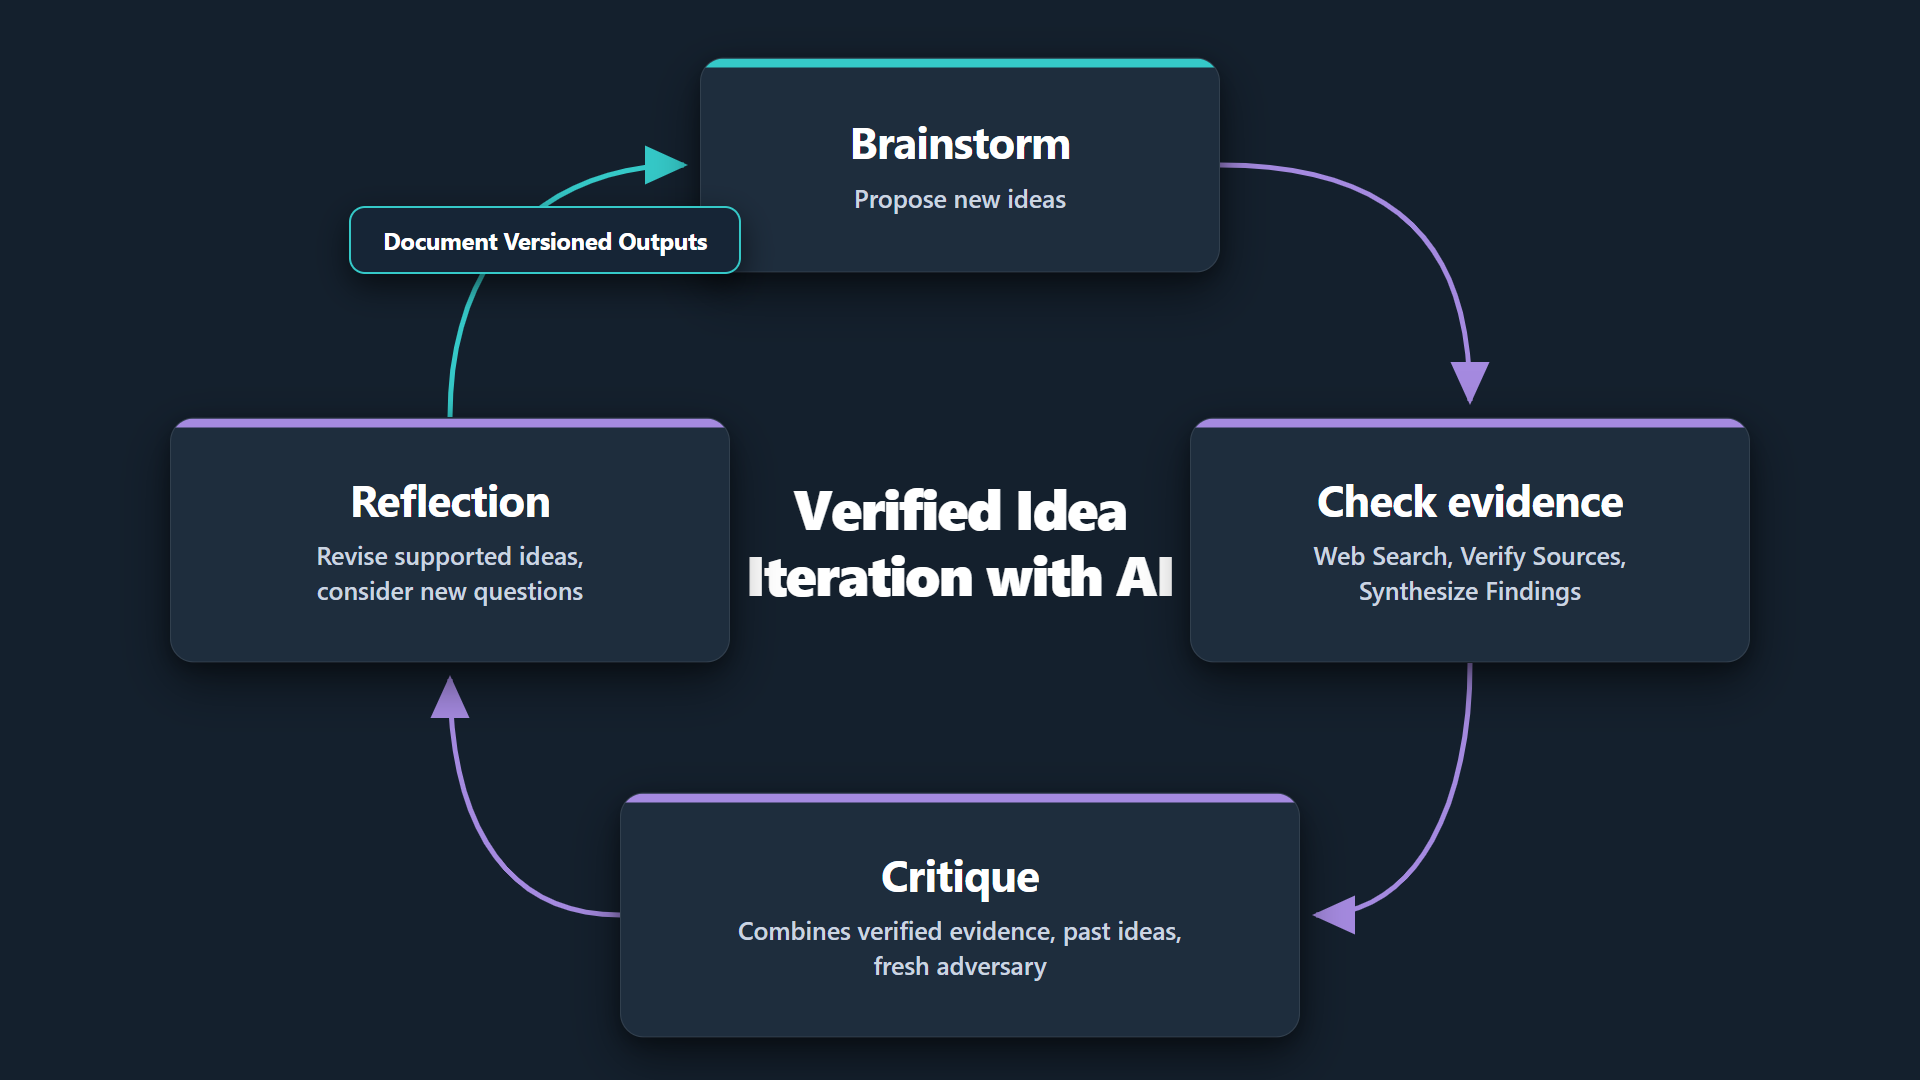
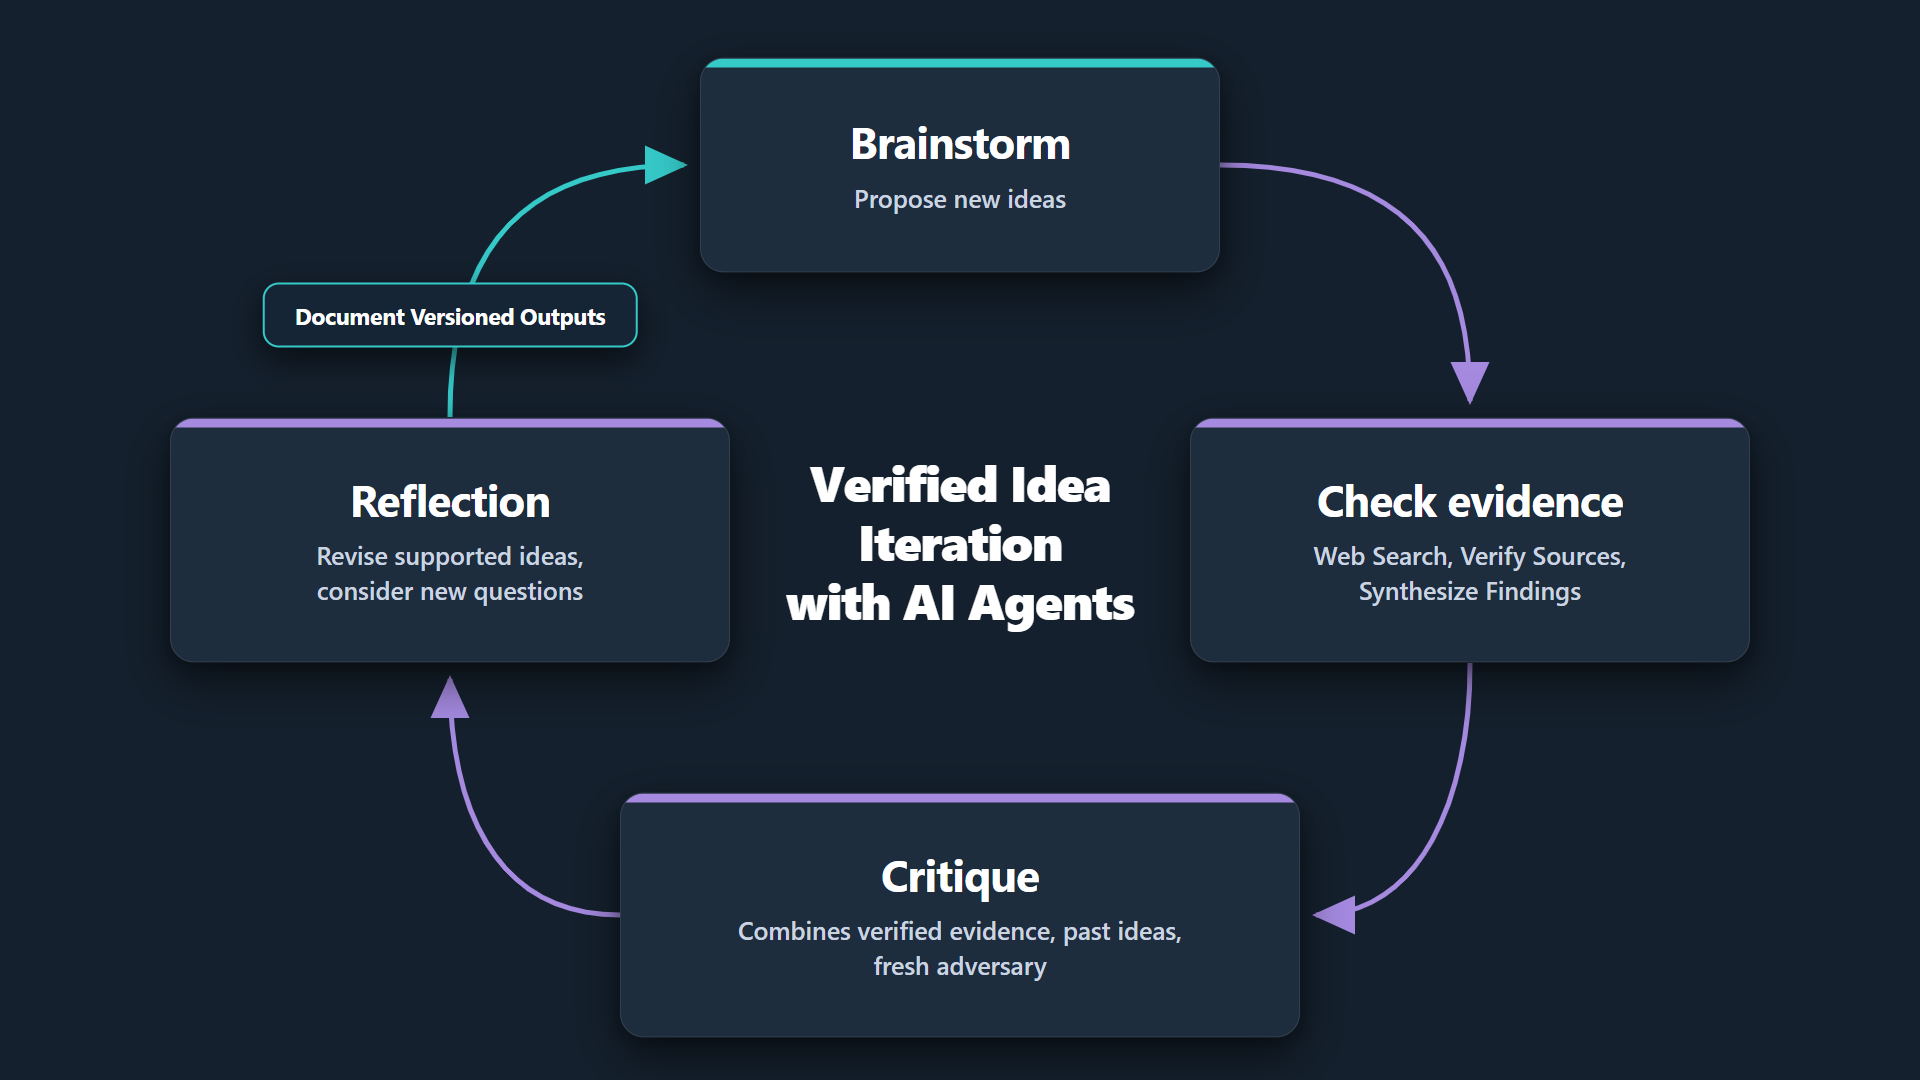
feat(website): adjust callout position and update center title to 3-line phrase

Changed region(s): [[0.375, 0.4278, 0.625, 0.5806], [0.1562, 0.1528, 0.375, 0.3361]]

diff --git a/content/blog/ai_idea_to_talk/index.md b/content/blog/ai_idea_to_talk/index.md
@@ -18,7 +18,7 @@ Rather than start over, I wondered what a development professional would say abo
 
 The AI models I used brought useful challenges and ideas, but also their own biases and mistakes. What helped most was changing my starting question. Rather than asking whether an impact evaluation result would hold up in a new place, I began by asking when a practitioner would realistically seek out that kind of evidence, how they would find it and fold it into their planning, and what a useful set of estimates would look like to them. As I refined the proposal, I kept checking it against research papers and reports from think tanks and development organizations. It is still an early-stage plan, but it points in a much more productive direction than where I started.
 
-{{< figure src="process-overview.png" caption="Verified idea iteration with AI: a continuous cycle of brainstorming, evidence checking, adversarial critique, and reflection, with versioned outputs documented at each turn." alt="A circular process diagram titled 'Verified Idea Iteration with AI'. Four cards are arranged in a clockwise loop: Brainstorm (Propose new ideas), Check evidence (Web Search, Verify Sources, Synthesize Findings), Critique (Combines verified evidence, past ideas, fresh adversary), and Reflection (Revise supported ideas, consider new questions). A callout box on the return flow highlights 'Document Versioned Outputs'." >}}
+{{< figure src="process-overview.png" caption="Verified Idea Iteration with AI Agents: a continuous cycle of brainstorming, evidence checking, adversarial critique, and reflection, with versioned outputs documented at each turn." alt="A circular process diagram titled 'Verified Idea Iteration with AI Agents'. Four cards are arranged in a clockwise loop: Brainstorm (Propose new ideas), Check evidence (Web Search, Verify Sources, Synthesize Findings), Critique (Combines verified evidence, past ideas, fresh adversary), and Reflection (Revise supported ideas, consider new questions). A callout box on the return flow highlights 'Document Versioned Outputs'." >}}
 
 ## Adopting the end user's point of view
 
